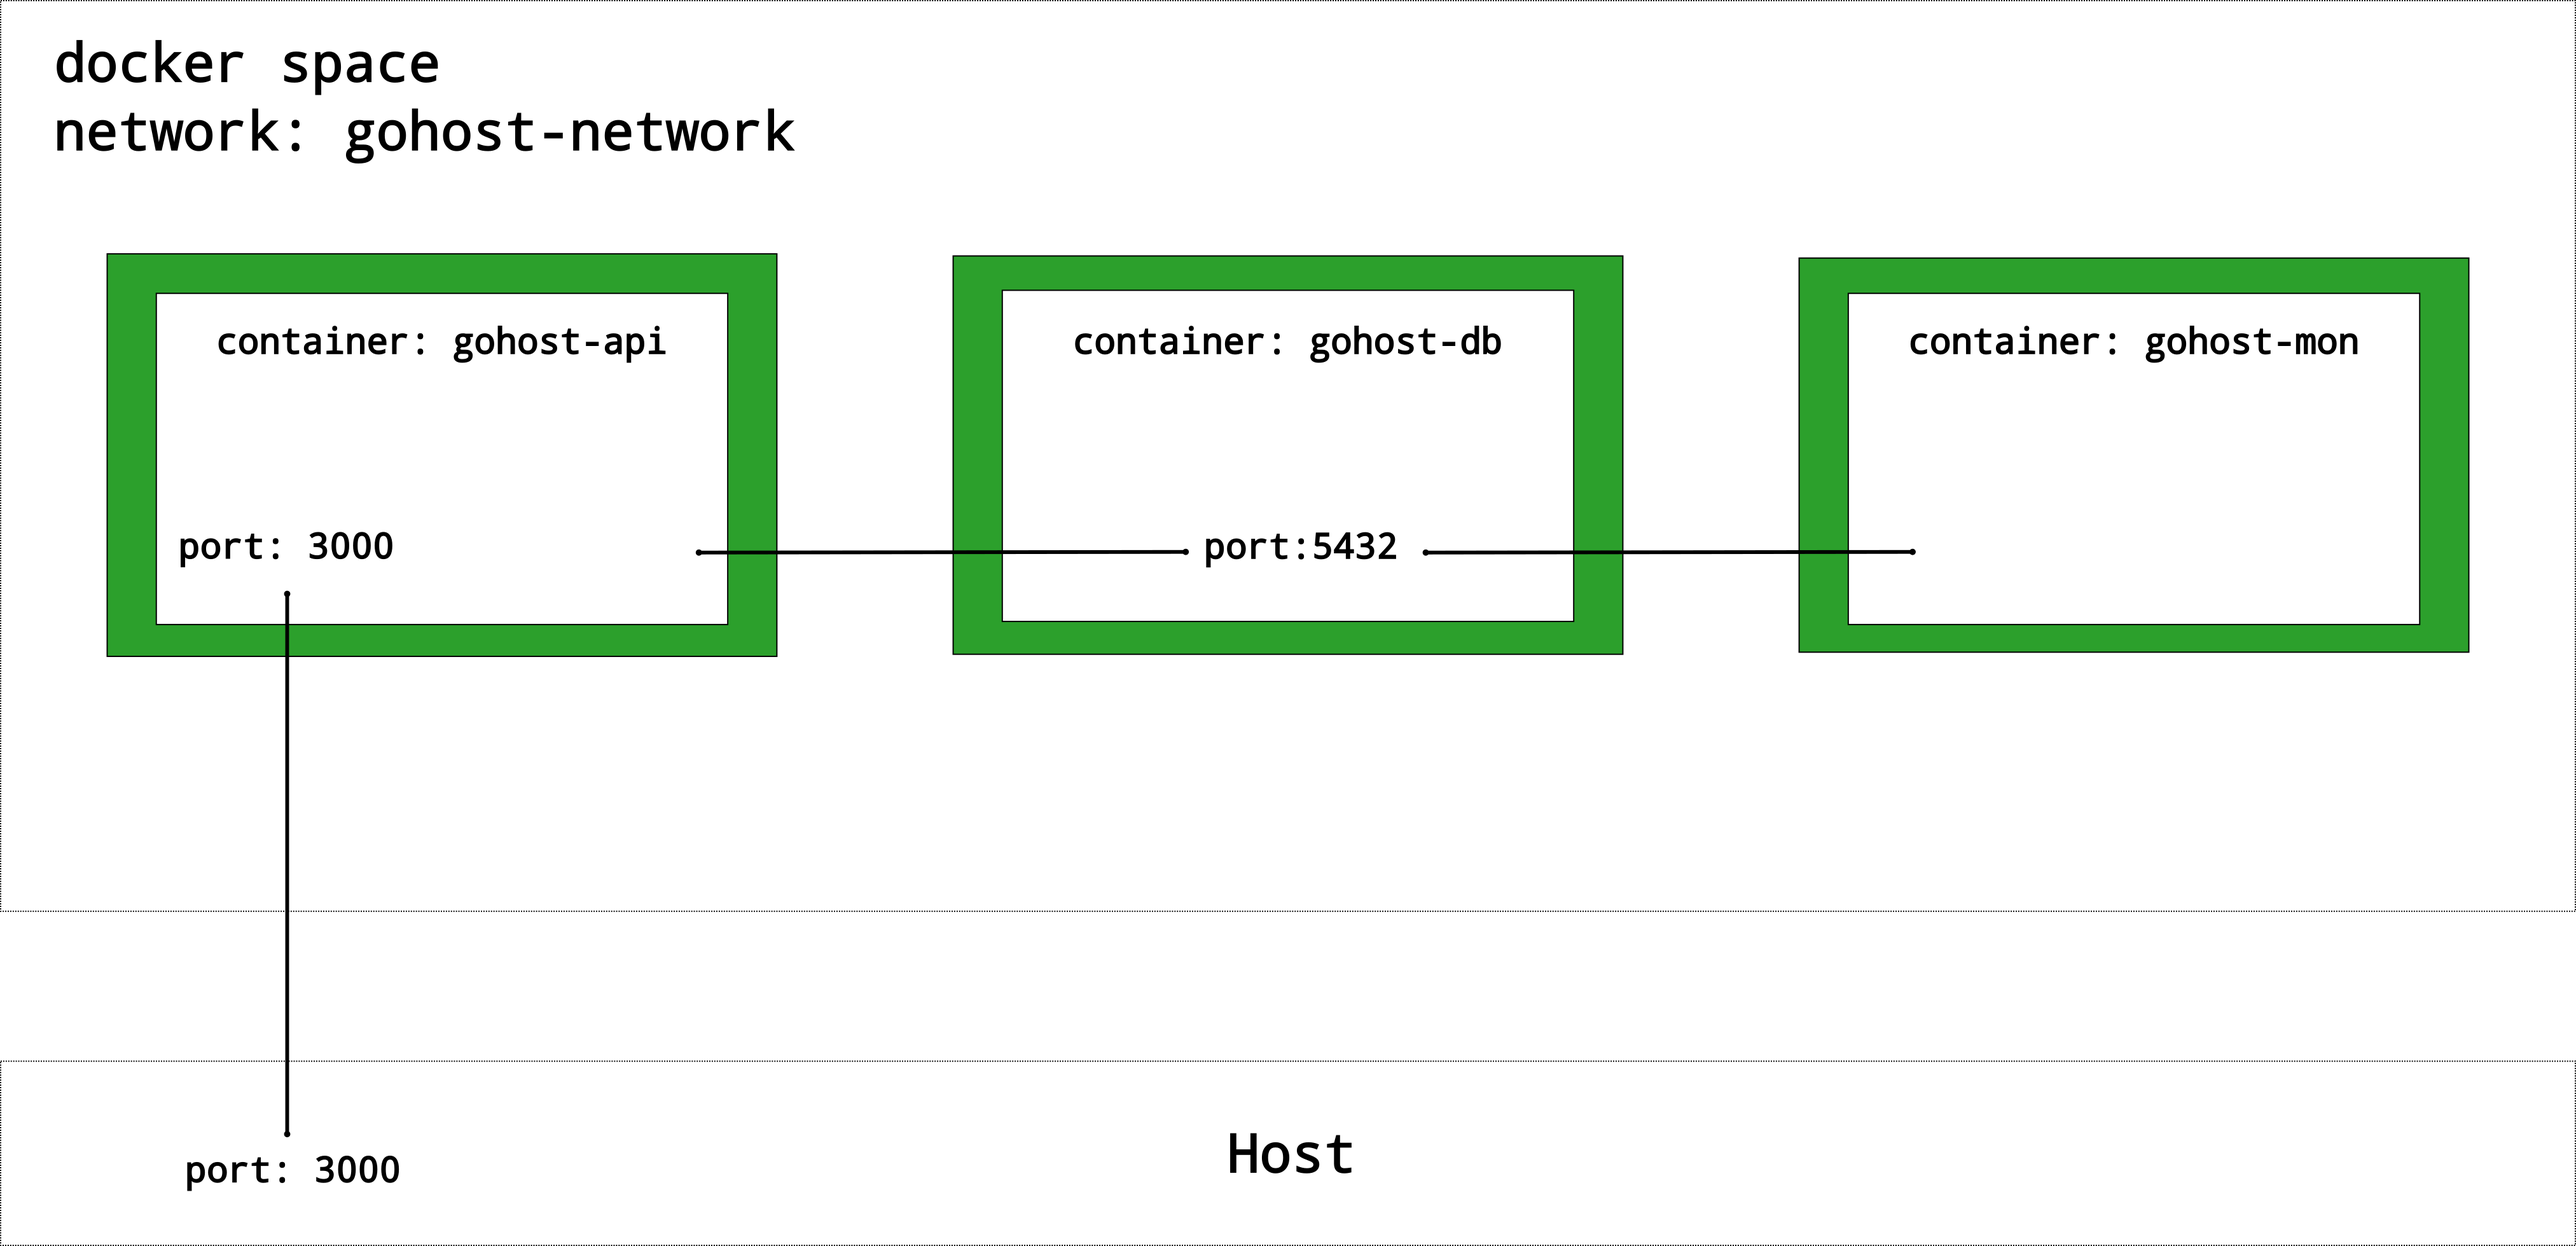
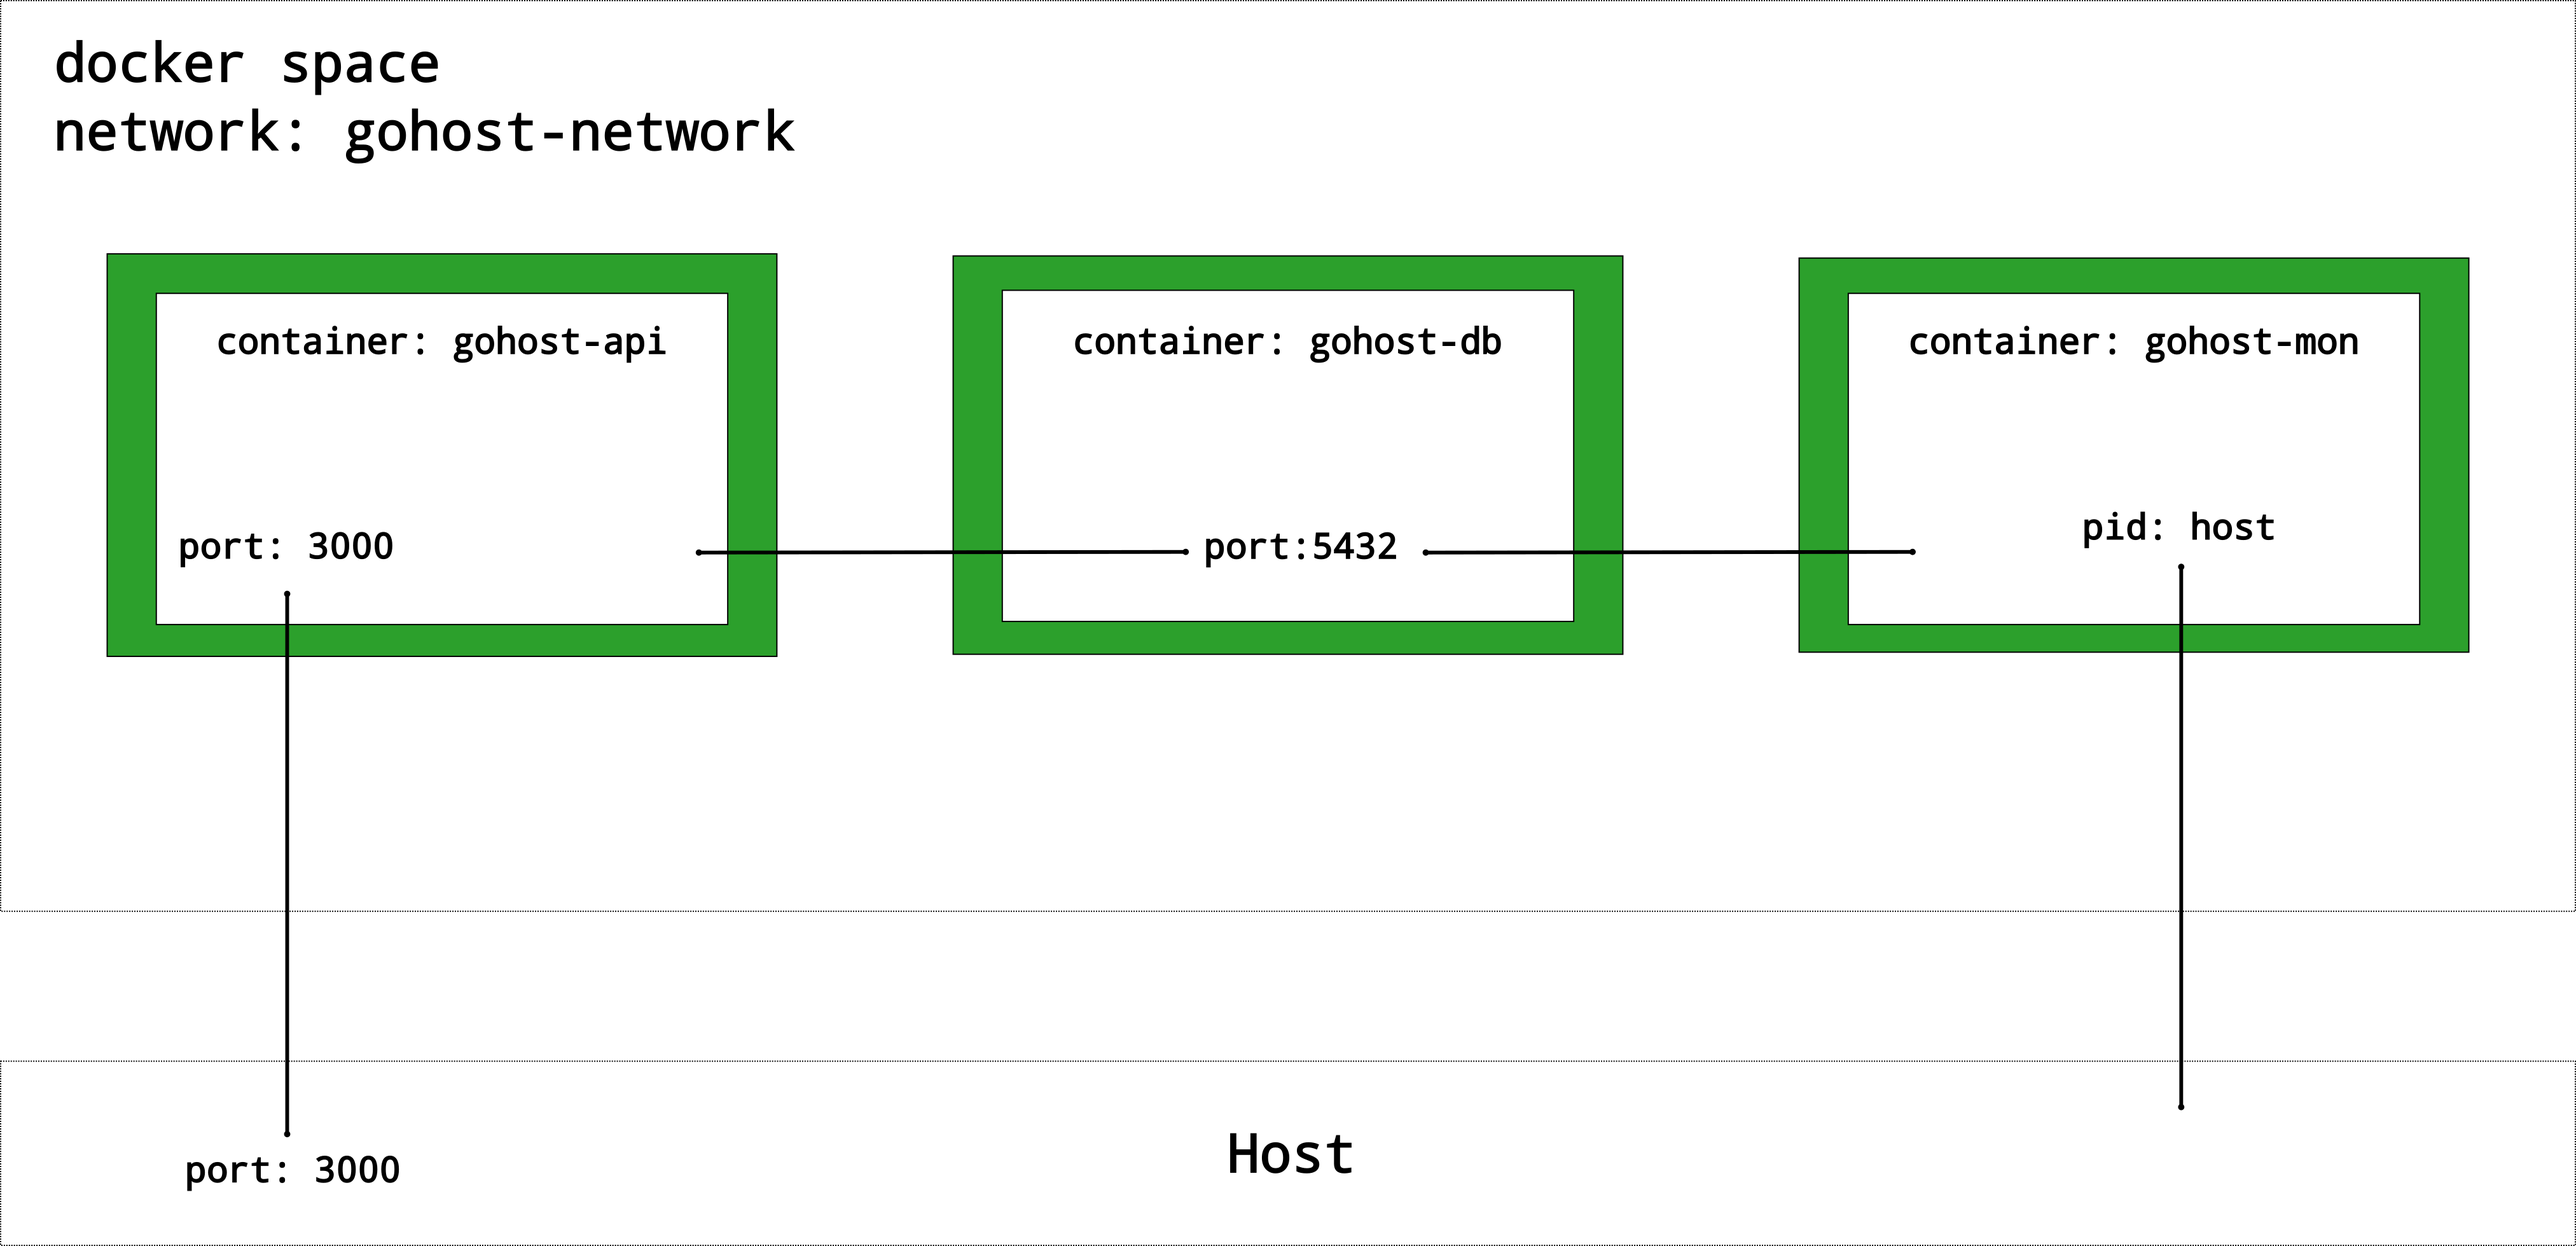
adding updated image to readme

Changed region(s): [[0.0, 0.8407, 1.0, 1.0], [0.9956, 0.0, 1.0, 0.218], [0.8089, 0.4048, 0.8711, 0.4359]]

diff --git a/README.md b/README.md
@@ -14,6 +14,9 @@ There are three components required to run gohost
 
 There is a docker-compose.yml file included that will deploy the required microservices as per the following diagram
 
+__*Warning*__  
+The container: gohost-mon is run in "privileged" mode which grants it access to the host machine.
+
 <img title="a title" alt="Alt text" src="./images/overview_v1.png">
 
 
